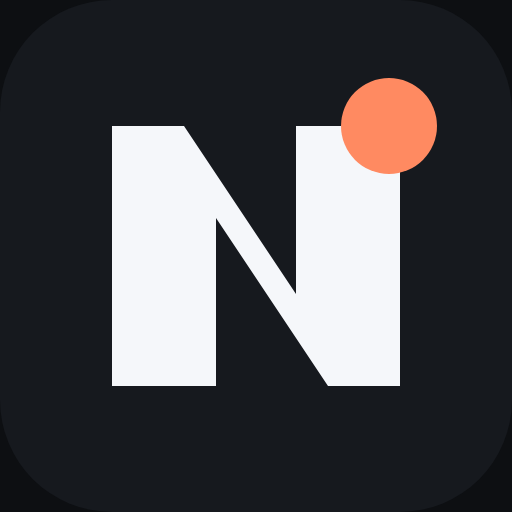
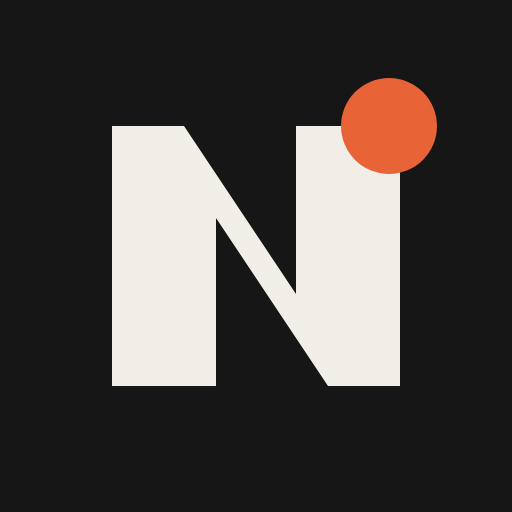
Restore original color palette

Changed region(s): [[0.6562, 0.125, 0.875, 0.3438]]

diff --git a/tests/product-surfaces.test.ts b/tests/product-surfaces.test.ts
@@ -16,8 +16,8 @@ describe('local MVP manifests', () => {
       start_url: '/',
       scope: '/',
       display: 'standalone',
-      background_color: '#0d0f12',
-      theme_color: '#0d0f12',
+      background_color: '#161616',
+      theme_color: '#161616',
       prefer_related_applications: false,
       share_target: {
         action: '/share',
@@ -48,11 +48,12 @@ describe('local MVP manifests', () => {
     );
 
     expect(theme).toContain('color-scheme: dark');
-    expect(theme).toContain('--color-bg: #0d0f12');
-    expect(theme).toContain('--color-text: #f5f7fa');
-    expect(theme).toContain('--color-border: #2d333d');
-    expect(theme).toContain('--color-border-strong: #46505f');
-    expect(theme).toContain('--color-accent-glow: rgb(255 122 80 / 16%)');
+    expect(theme).toContain('--color-bg: #161616');
+    expect(theme).toContain('--color-text: #f1eee7');
+    expect(theme).toContain('--color-border: #343230');
+    expect(theme).toContain('--color-border-strong: #514c47');
+    expect(theme).toContain('--color-accent: #e86437');
+    expect(theme).toContain('--color-accent-glow: rgb(232 100 55 / 18%)');
     expect(theme).toContain('--space-6: 24px');
     expect(theme).toContain('--tap: 48px');
     expect(sharedCss).toContain('width: min(100%, 460px)');
@@ -60,11 +61,11 @@ describe('local MVP manifests', () => {
     expect(pwaCss).toContain("@import '../../shared/theme.css'");
     expect(pwaCss).toContain('width: min(100%, 736px)');
     expect(extensionCss).toContain("@import '../../shared/theme.css'");
-    expect(`${pwaCss}\n${extensionCss}`).not.toMatch(/#(?:fffdf8|f1eee7|161616)\b/iu);
+    expect(`${theme}\n${pwaCss}\n${extensionCss}`).not.toMatch(/#(?:ff8a61|ff7448)\b/iu);
 
     for (const html of [pwaHtml, extensionHtml]) {
       expect(html).toContain('<meta name="color-scheme" content="dark" />');
-      expect(html).toContain('background: #0d0f12');
+      expect(html).toContain('background: #161616');
       expect(html).not.toMatch(/theme[- ]toggle|light mode/iu);
     }
   });
@@ -76,7 +77,7 @@ describe('local MVP manifests', () => {
     expect(manifest).toMatchObject({
       manifest_version: 3,
       name: 'No BS Summary',
-      version: '0.6.0',
+      version: '0.6.1',
       minimum_chrome_version: '114',
       permissions: ['sidePanel', 'storage'],
       background: { service_worker: 'background.js', type: 'module' },
@@ -144,7 +145,7 @@ describe('local MVP manifests', () => {
 
   it('precaches the built JS and CSS needed for a first offline launch', async () => {
     const worker = await fs.readFile('apps/pwa/public/sw.js', 'utf8');
-    expect(worker).toContain("const CACHE = 'nbs-shell-v9'");
+    expect(worker).toContain("const CACHE = 'nbs-shell-v10'");
     expect(worker).toContain("event.data?.type === 'SKIP_WAITING'");
     expect(worker).toContain('/\\.(?:css|js)$/u');
     expect(worker).toContain("'/icons/icon-192.svg'");
@@ -202,12 +203,12 @@ describe('local MVP manifests', () => {
       fs.readFile('apps/android/app/src/main/res/drawable/splash_logo_vector.xml', 'utf8'),
     ]);
     for (const asset of [source, icon192, icon512]) {
-      expect(asset).toContain('#f5f7fa');
-      expect(asset).toContain('#ff8a61');
-      expect(asset).not.toContain('#e86437');
-      expect(asset).not.toContain('#f1eee7');
+      expect(asset).toContain('#f1eee7');
+      expect(asset).toContain('#e86437');
+      expect(asset).not.toContain('#ff8a61');
+      expect(asset).not.toContain('#f5f7fa');
     }
-    expect(splash).toContain('#F5F7FA');
-    expect(splash).toContain('#FF8A61');
+    expect(splash).toContain('#F1EEE7');
+    expect(splash).toContain('#E86437');
   });
 });

diff --git a/apps/shared/theme.css b/apps/shared/theme.css
@@ -1,7 +1,7 @@
 :root {
   color-scheme: dark;
-  color: #f5f7fa;
-  background: #0d0f12;
+  color: #f1eee7;
+  background: #161616;
   font-family:
     system-ui,
     -apple-system,
@@ -13,22 +13,22 @@
   -webkit-font-smoothing: antialiased;
   -moz-osx-font-smoothing: grayscale;
 
-  --color-bg: #0d0f12;
-  --color-surface: #16191e;
-  --color-surface-raised: #1d2128;
-  --color-surface-hover: #242a33;
-  --color-input: #101318;
-  --color-text: #f5f7fa;
-  --color-text-muted: #b4bcc8;
-  --color-text-subtle: #949eac;
-  --color-border: #2d333d;
-  --color-border-strong: #46505f;
-  --color-accent: #ff8a61;
-  --color-accent-strong: #ff7448;
-  --color-on-accent: #1a0d08;
-  --color-accent-soft: rgb(255 138 97 / 13%);
-  --color-accent-glow: rgb(255 122 80 / 16%);
-  --color-focus-ring: rgb(255 138 97 / 28%);
+  --color-bg: #161616;
+  --color-surface: #1d1d1d;
+  --color-surface-raised: #242424;
+  --color-surface-hover: #2b2b2b;
+  --color-input: #121212;
+  --color-text: #f1eee7;
+  --color-text-muted: #bdb6aa;
+  --color-text-subtle: #948d82;
+  --color-border: #343230;
+  --color-border-strong: #514c47;
+  --color-accent: #e86437;
+  --color-accent-strong: #d4542c;
+  --color-on-accent: #161616;
+  --color-accent-soft: rgb(232 100 55 / 15%);
+  --color-accent-glow: rgb(232 100 55 / 18%);
+  --color-focus-ring: rgb(232 100 55 / 32%);
   --color-error: #ff9b8e;
   --color-watch: #17613f;
   --color-skim: #74500c;

diff --git a/apps/pwa/public/privacy.html b/apps/pwa/public/privacy.html
@@ -4,7 +4,7 @@
     <meta charset="UTF-8" />
     <meta name="viewport" content="width=device-width, initial-scale=1, viewport-fit=cover" />
     <meta name="color-scheme" content="dark" />
-    <meta name="theme-color" content="#0d0f12" />
+    <meta name="theme-color" content="#161616" />
     <meta name="description" content="No BS Summary privacy policy." />
     <title>Privacy · No BS Summary</title>
     <style>
@@ -18,8 +18,8 @@
           BlinkMacSystemFont,
           'Segoe UI',
           sans-serif;
-        color: #f5f7fa;
-        background: #0d0f12;
+        color: #f1eee7;
+        background: #161616;
       }
       * {
         box-sizing: border-box;
@@ -43,7 +43,7 @@
       }
       p,
       li {
-        color: #b4bcc8;
+        color: #bdb6aa;
         line-height: 1.55;
       }
       ul {
@@ -51,14 +51,14 @@
       }
       .updated {
         margin-top: 0.4rem;
-        color: #949eac;
+        color: #948d82;
         font-size: 0.8rem;
       }
       a {
-        color: #ff8a61;
+        color: #e86437;
       }
       a:focus-visible {
-        outline: 3px solid #ff8a61;
+        outline: 3px solid #e86437;
         outline-offset: 3px;
       }
     </style>

diff --git a/apps/pwa/index.html b/apps/pwa/index.html
@@ -4,7 +4,7 @@
     <meta charset="UTF-8" />
     <meta name="viewport" content="width=device-width, initial-scale=1, viewport-fit=cover" />
     <meta name="color-scheme" content="dark" />
-    <meta name="theme-color" content="#0d0f12" />
+    <meta name="theme-color" content="#161616" />
     <meta name="description" content="Summarize a captioned YouTube video." />
     <link rel="manifest" href="/manifest.webmanifest" />
     <link rel="icon" href="/icons/icon-192.svg" type="image/svg+xml" />
@@ -12,7 +12,7 @@
     <style>
       :root {
         color-scheme: dark;
-        background: #0d0f12;
+        background: #161616;
       }
     </style>
     <title>No BS Summary</title>

diff --git a/src/worker.ts b/src/worker.ts
@@ -333,7 +333,7 @@ async function readJsonBody(request: Request): Promise<unknown> {
 async function serveAsset(request: Request, env: WorkerEnv): Promise<Response> {
   const requestUrl = new URL(request.url);
   const assetUrl = new URL(requestUrl.pathname + requestUrl.search, 'https://assets.local');
-  const assetRequest = new Request(assetUrl, request);
+  const assetRequest = new Request(assetUrl, { method: request.method });
   const assetResponse = await env.ASSETS.fetch(assetRequest);
   const response = new Response(assetResponse.body, assetResponse);
   const pathname = requestUrl.pathname;

diff --git a/tests/extension.test.ts b/tests/extension.test.ts
@@ -16,7 +16,7 @@ describe('extension manifest permissions', () => {
       action: { default_title: string; default_icon: Record<string, string> };
     };
     expect(manifest.name).toBe('No BS Summary');
-    expect(manifest.version).toBe('0.6.0');
+    expect(manifest.version).toBe('0.6.1');
     expect((manifest as { minimum_chrome_version?: string }).minimum_chrome_version).toBe('114');
     expect(manifest.host_permissions).toEqual(
       expect.arrayContaining([

diff --git a/capacitor.config.ts b/capacitor.config.ts
@@ -4,10 +4,10 @@ const config: CapacitorConfig = {
   appId: 'dev.echonad3.nobssummary',
   appName: 'No BS Summary',
   webDir: 'dist/pwa',
-  backgroundColor: '#0d0f12',
+  backgroundColor: '#161616',
   android: {
     path: 'apps/android',
-    backgroundColor: '#0d0f12',
+    backgroundColor: '#161616',
   },
   server: {
     url: 'https://no-bs-summary.echonad3.workers.dev/',

diff --git a/apps/extension/sidepanel.html b/apps/extension/sidepanel.html
@@ -7,7 +7,7 @@
     <style>
       :root {
         color-scheme: dark;
-        background: #0d0f12;
+        background: #161616;
       }
     </style>
     <title>No BS Summary</title>

diff --git a/apps/pwa/public/sw.js b/apps/pwa/public/sw.js
@@ -1,4 +1,4 @@
-const CACHE = 'nbs-shell-v9';
+const CACHE = 'nbs-shell-v10';
 const CORE = [
   '/manifest.webmanifest',
   '/icons/icon-192.png',
